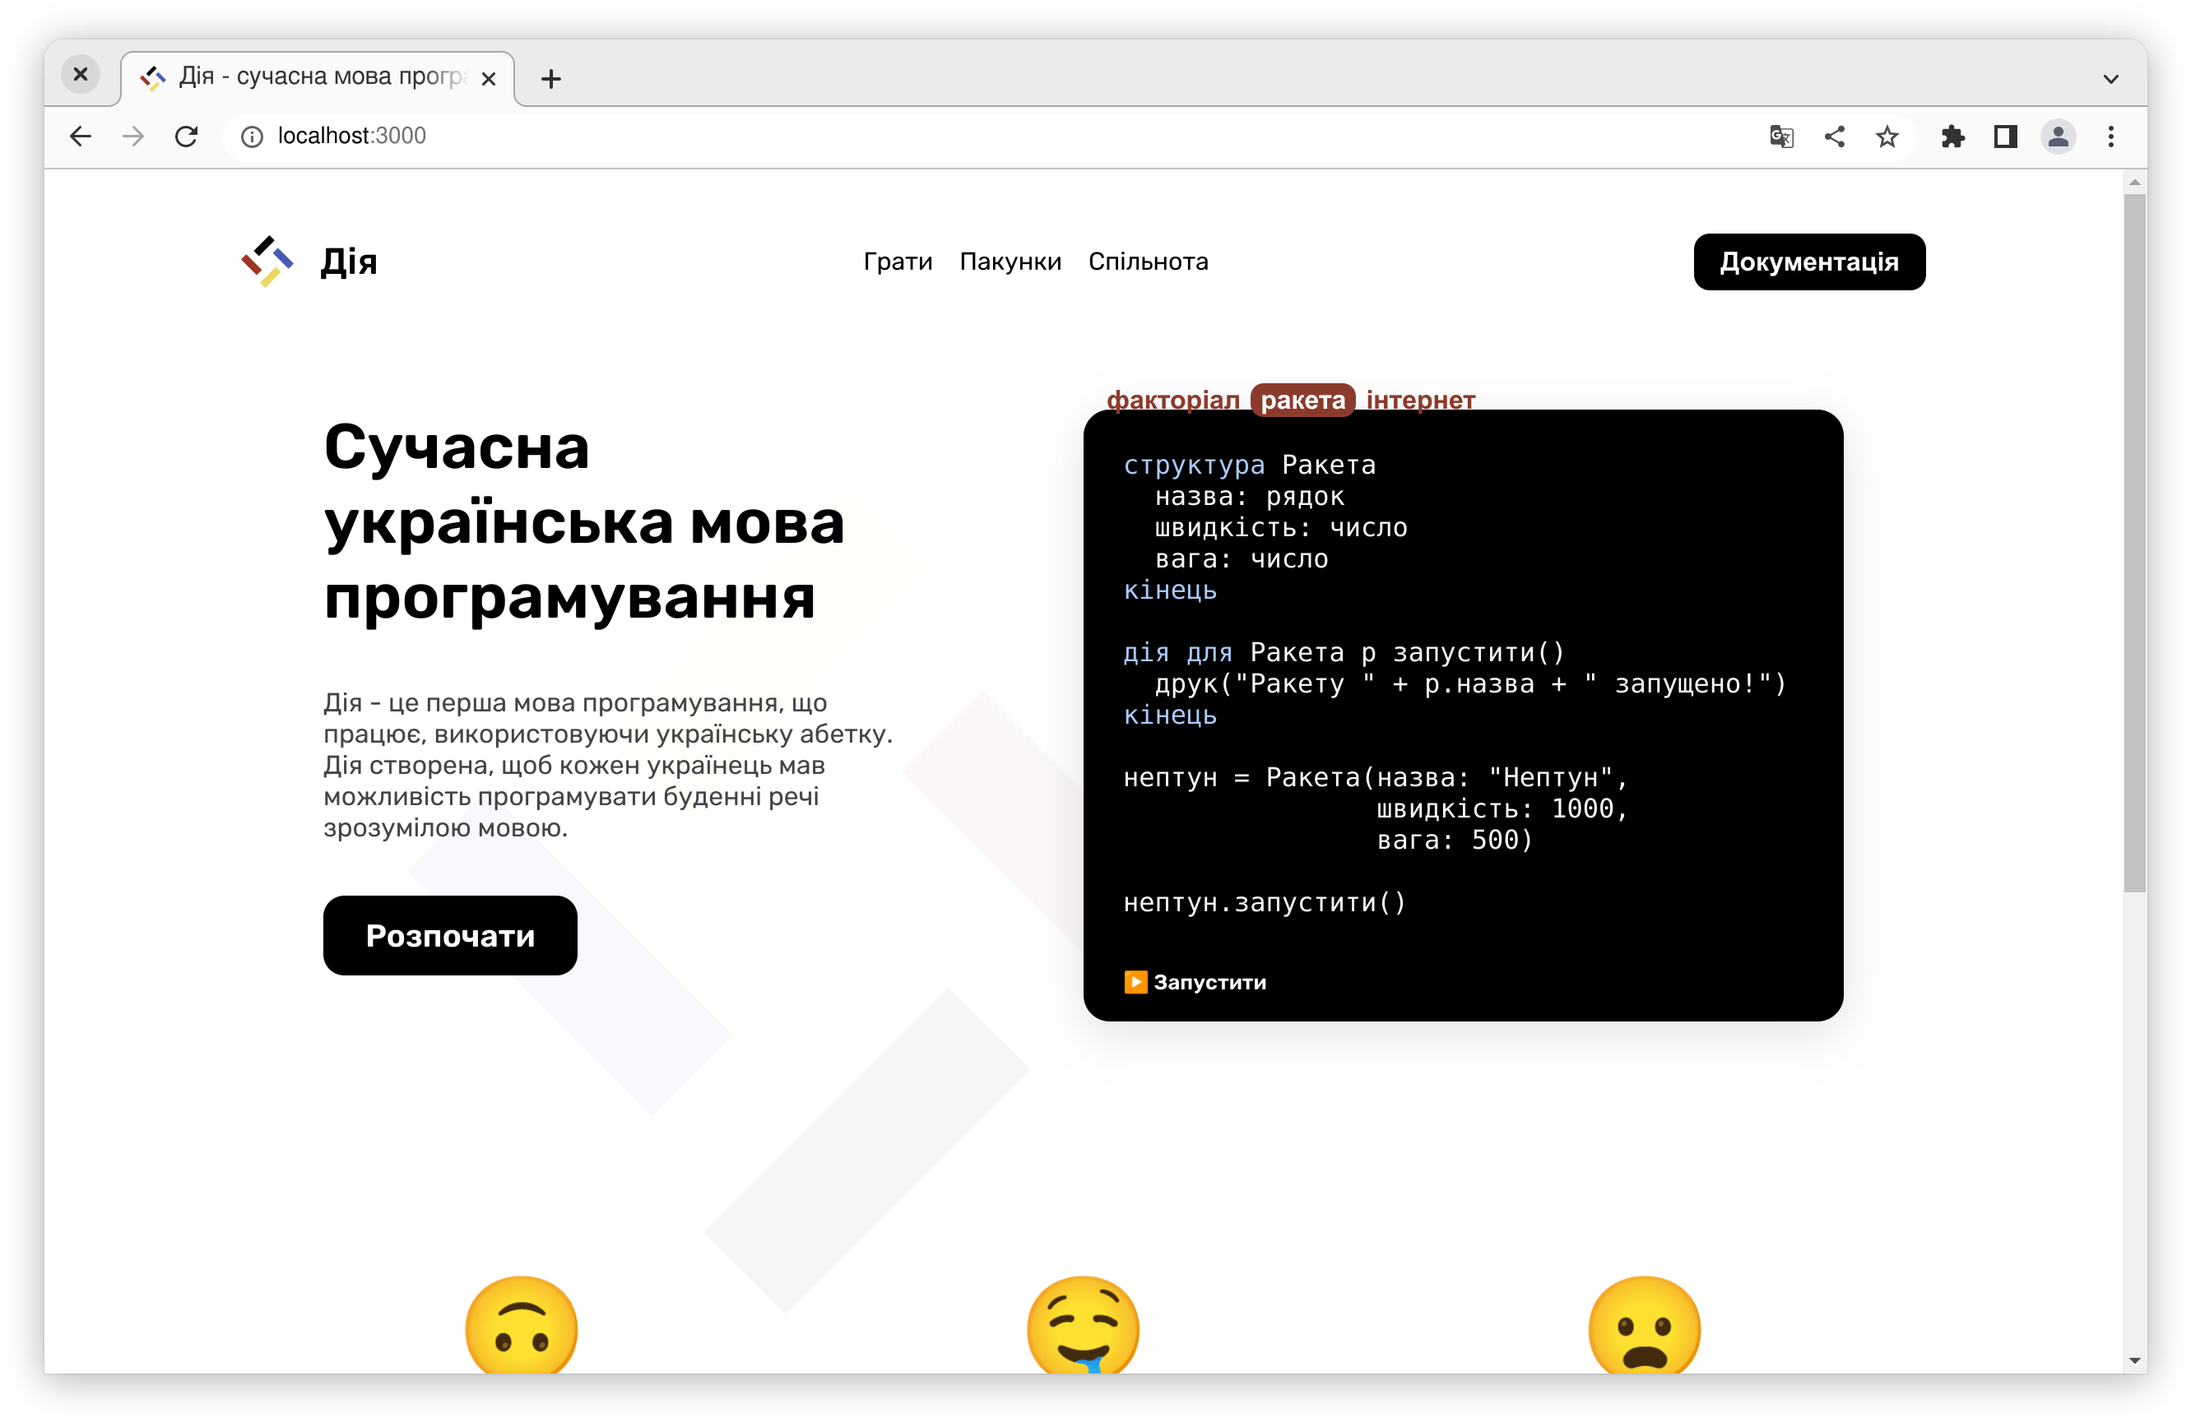
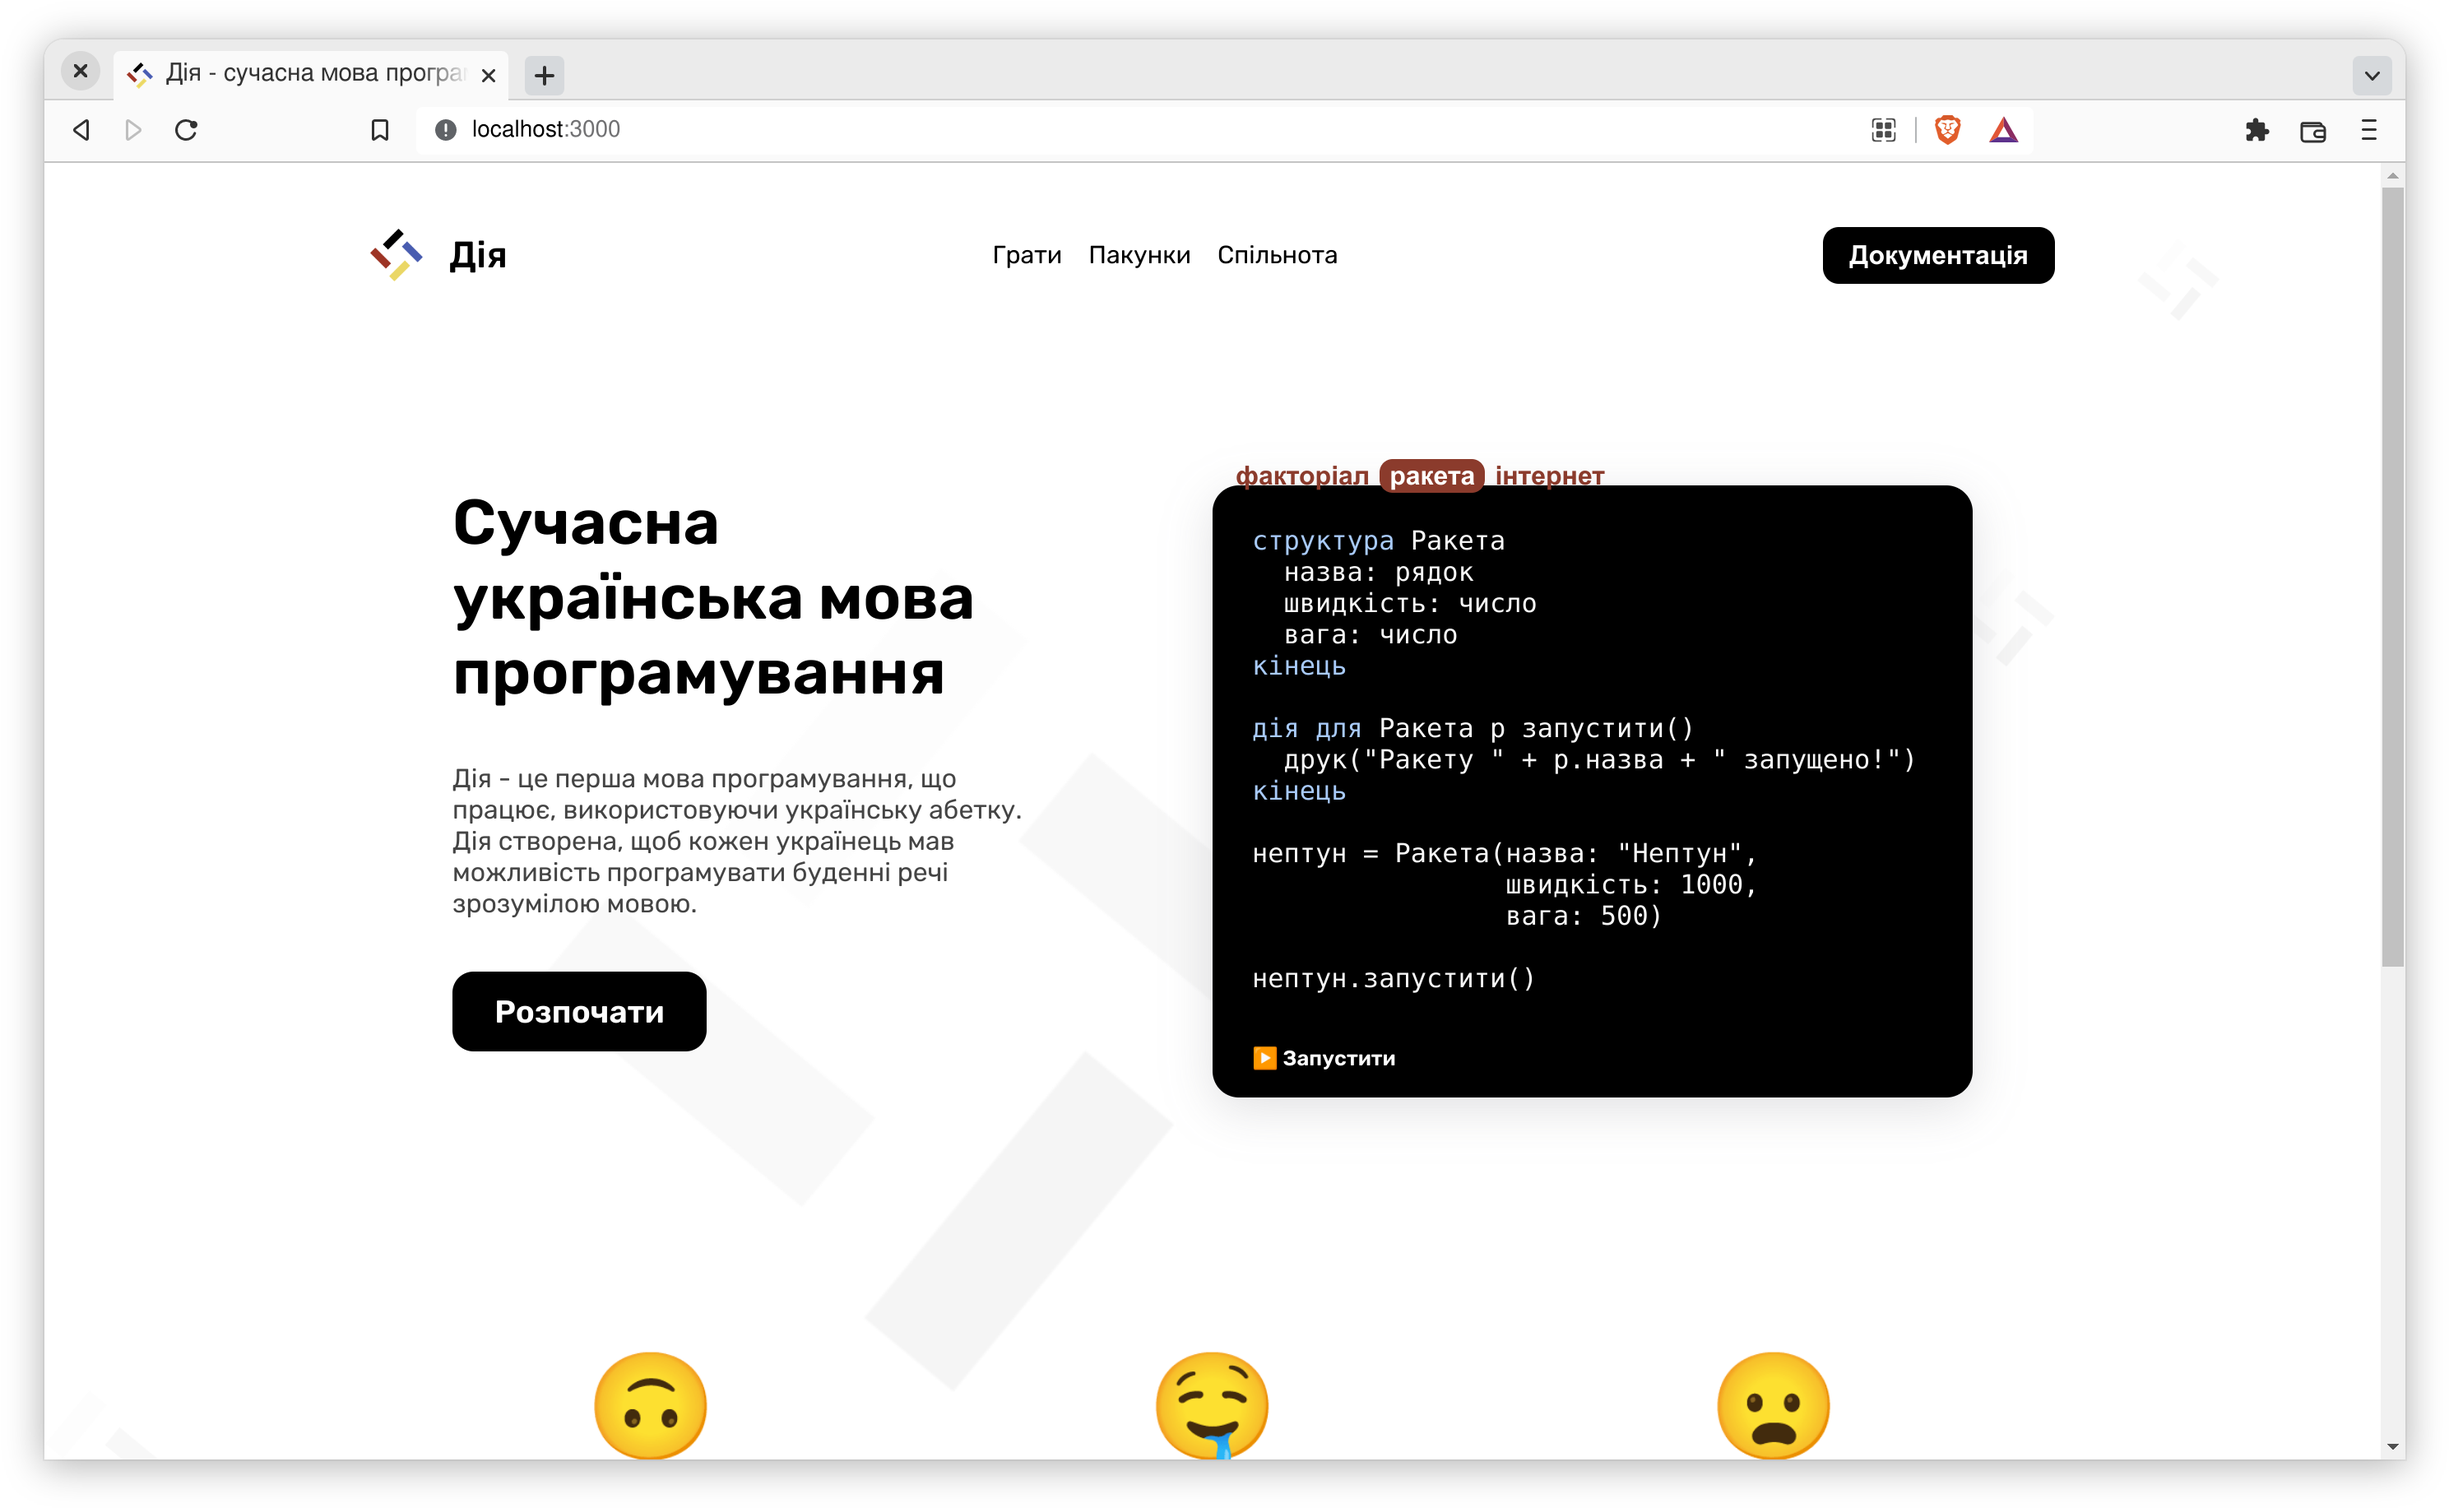
wip

diff --git a/components/section/Hero.vue b/components/section/Hero.vue
@@ -61,7 +61,10 @@ const currentCode = useState('currentCode', () => codes[1]);
 
 <template>
   <section class="hero">
-    <div class="hero-pattern-1" style="background-image: url(../assets/images/logo-light.png)"></div>
+    <div class="hero-pattern hero-pattern-1" style="background-image: url(../assets/images/logo-light.png)"></div>
+    <div class="hero-pattern hero-pattern-2" style="background-image: url(../assets/images/logo-light.png)"></div>
+    <div class="hero-pattern hero-pattern-3" style="background-image: url(../assets/images/logo-light.png)"></div>
+    <div class="hero-pattern hero-pattern-4" style="background-image: url(../assets/images/logo-light.png)"></div>
 
     <div class="left">
       <h1 class="hero-title">
@@ -108,6 +111,8 @@ const currentCode = useState('currentCode', () => codes[1]);
 <style lang="scss">
 .hero {
   position: relative;
+
+  margin-top: 50px;
 
   padding: 50px;
 
@@ -199,6 +204,12 @@ const currentCode = useState('currentCode', () => codes[1]);
   }
 }
 
+@keyframes turn {
+  100% {
+    transform: rotate(1turn);
+  }
+}
+
 .hero-pattern-1 {
   position: absolute;
 
@@ -207,14 +218,47 @@ const currentCode = useState('currentCode', () => codes[1]);
 
   height: 500px;
   width: 500px;
+}
 
+.hero-pattern-2 {
+  position: absolute;
+
+  top: -100px;
+  right: -100px;
+
+  height: 50px;
+  width: 50px;
+}
+
+.hero-pattern-3 {
+  position: absolute;
+
+  top: 100px;
+  right: 0px;
+
+  height: 60px;
+  width: 60px;
+}
+
+.hero-pattern-4 {
+  position: absolute;
+
+  top: 600px;
+  left: -220px;
+
+  height: 100px;
+  width: 100px;
+}
+
+.hero-pattern {
   background-repeat: no-repeat;
-  background-size: 500px;
-  //filter: grayscale(1);
-  transform: rotate(180deg);
+  background-size: 100%;
+  filter: grayscale(1);
 
   opacity: .04;
 
   z-index: -1;
+
+  animation: turn 180s infinite linear reverse;
 }
 </style>
